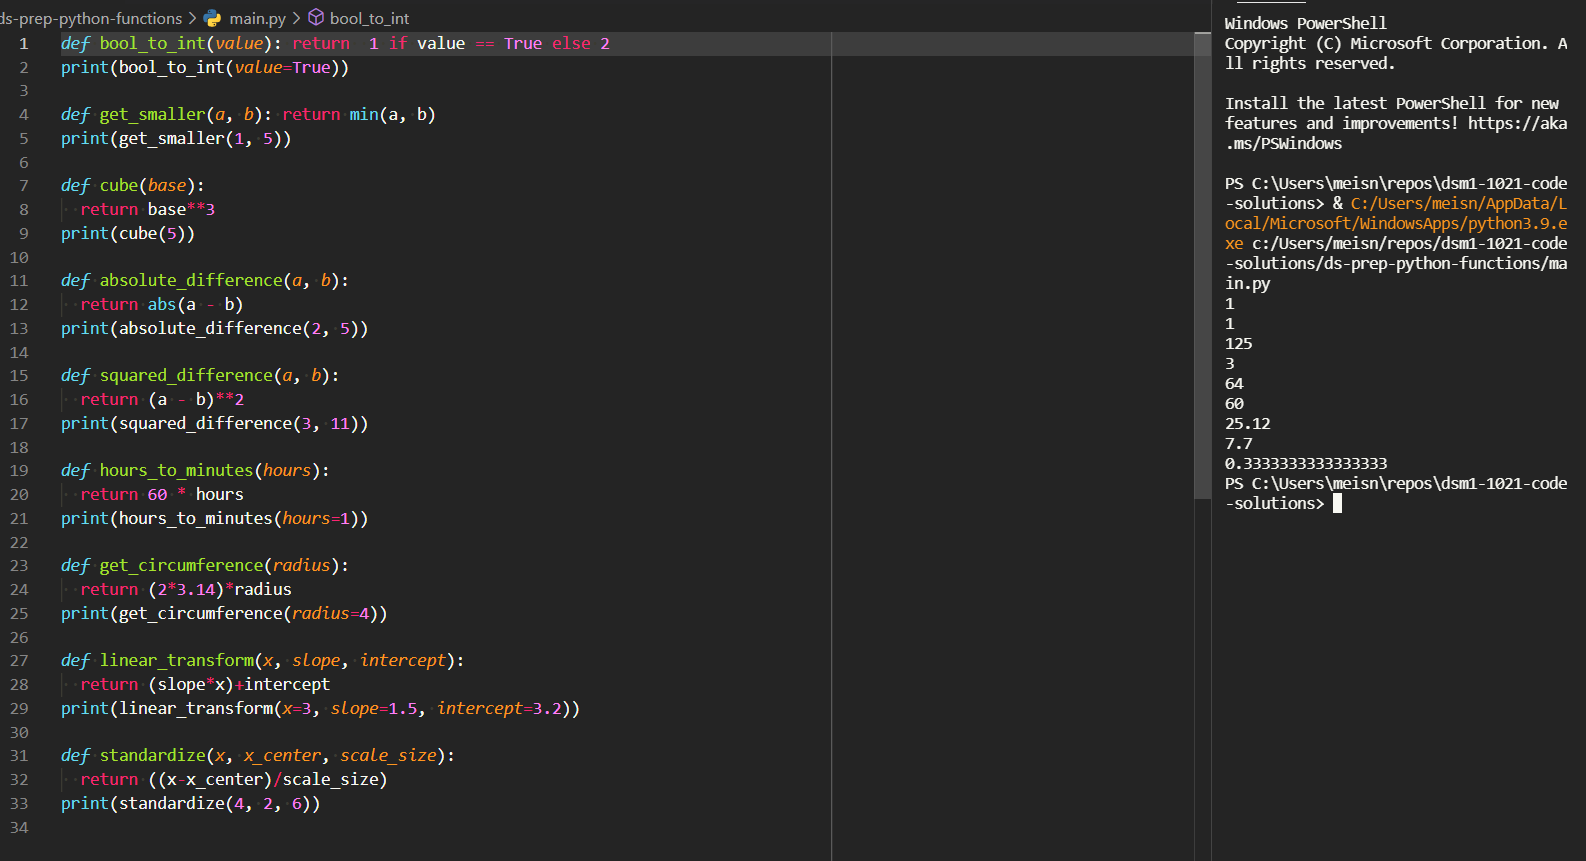
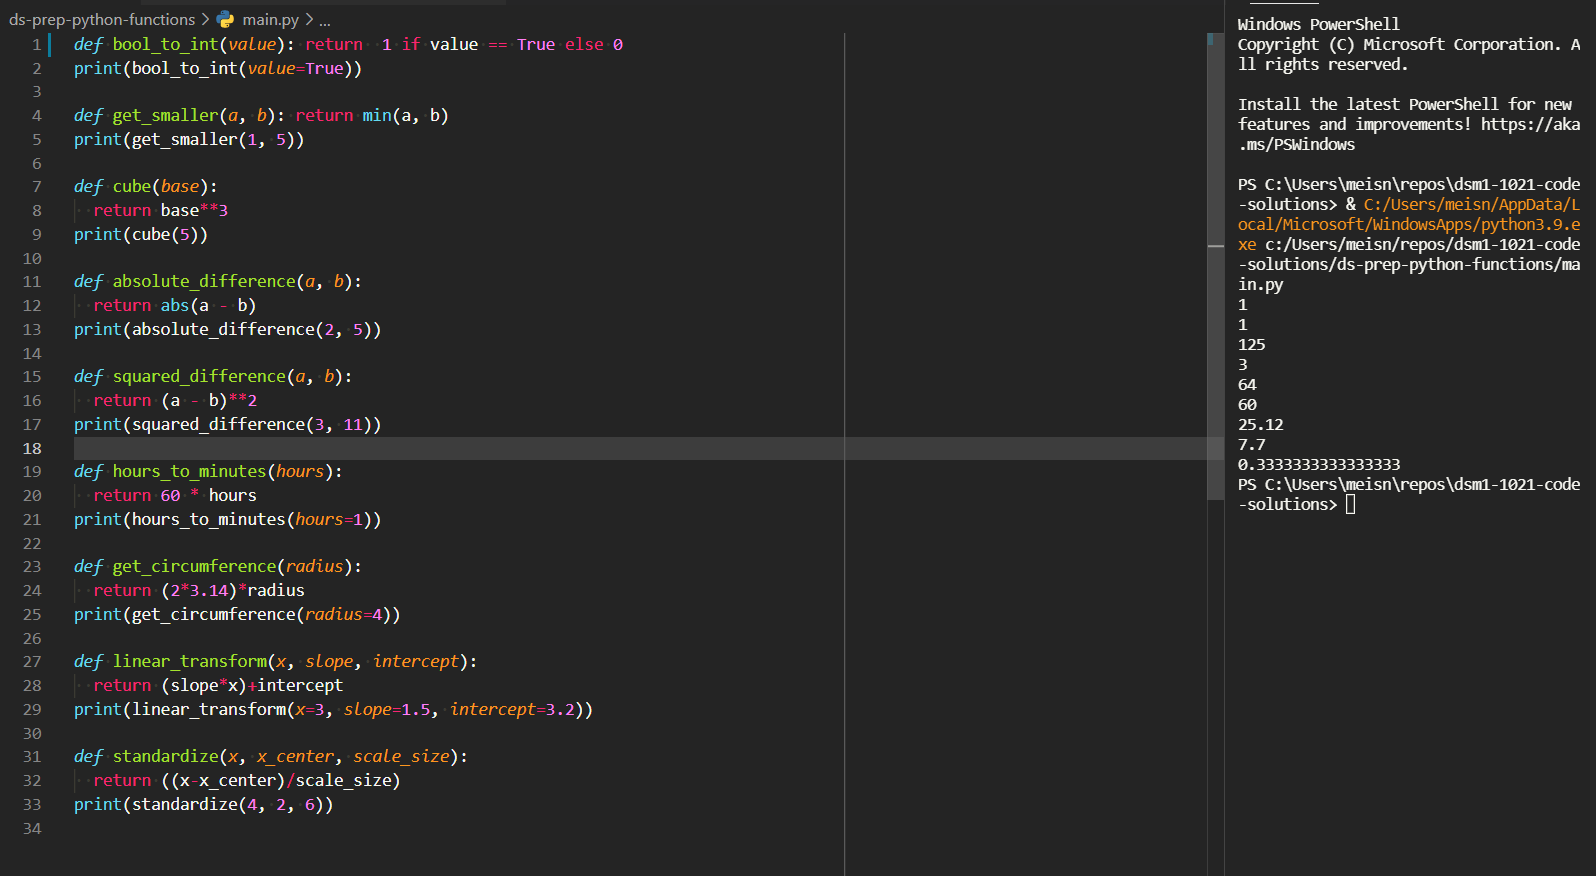
ds-prep-python-change.

Changed region(s): [[0.0, 0.0, 0.9887, 0.9663], [0.0309, 0.1208, 0.2781, 0.1812], [0.0, 0.1812, 0.0309, 0.2114]]

diff --git a/ds-prep-python-functions/main.py b/ds-prep-python-functions/main.py
@@ -1,4 +1,4 @@
-def bool_to_int(value): return  1 if value == True else 2
+def bool_to_int(value): return  1 if value == True else 0
 print(bool_to_int(value=True))
 
 def get_smaller(a, b): return min(a, b)
